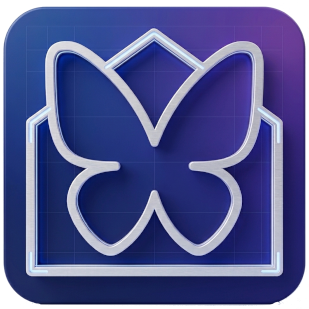
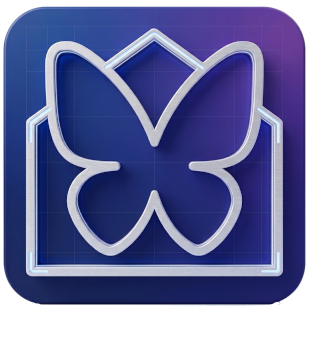
feat: panneau desktop multi-élèves (display:panel)
- desktop/php/panel.php : vue d'ensemble (un onglet par équipement ProJote
  actif) alimentée par widget_json via ProJote::getPronoteData() — identité,
  statistiques, prochain contrôle, EDT du jour/prochain jour, dernières notes,
  devoirs, punitions, lien iCal. Échappement JS systématique + JSON_HEX_* côté
  PHP (anti-XSS). Bouton « Actualiser » déclenche les commandes refresh.
- info.json : "display": "panel" (active le toggle displayDesktopPanel).
- jeeProJote.php : widget_json enrichi (prochain_DS_*, URL_Ical) pour alimenter
  les cartes correspondantes du panneau.
- Icône du plugin mise à jour.

Sans bump de version (numéro à valider à la publication).

diff --git a/desktop/php/panel.php b/desktop/php/panel.php
@@ -1,0 +1,325 @@
+<?php
+/* ProJote — Panneau d'accueil (desktop panel)
+ * Copyright (C) 2024-2026 Aldarande
+ *
+ * Page affichée sous le menu « Accueil » de Jeedom lorsque l'option
+ * « Afficher le panneau desktop » est activée dans la gestion du plugin.
+ *
+ * Mécanisme Jeedom natif :
+ *   - info.json : "display": "panel"  → Jeedom propose le toggle displayDesktopPanel.
+ *   - index.php ajoute l'entrée de menu si config::byKey('displayDesktopPanel','ProJote') != 0.
+ *   - Cette page est incluse comme FRAGMENT dans #div_pageContainer (pas de <html>/<head>).
+ *     FontAwesome et jQuery sont déjà chargés par le core.
+ *
+ * Rôle : vue d'ensemble multi-élèves (un onglet par équipement ProJote actif),
+ * alimentée par le blob widget_json mis à jour par le démon (ProJote::getPronoteData()).
+ */
+
+require_once dirname(__FILE__) . '/../../../../core/php/core.inc.php';
+require_once dirname(__FILE__) . '/../../core/class/ProJote.class.php';
+
+if (!isConnect()) {
+    throw new Exception('{{401 - Accès non autorisé}}');
+}
+
+// Rassembler les données de chaque équipement ProJote actif et visible.
+$students = array();
+foreach (eqLogic::byType('ProJote', true) as $eq) {
+    if (!$eq->getIsEnable()) {
+        continue;
+    }
+    $data = ProJote::getPronoteData($eq->getId());
+    if (!is_array($data)) {
+        $data = array();
+    }
+    $refreshCmd   = $eq->getCmd(null, 'refresh');
+    $students[] = array(
+        'id'        => $eq->getId(),
+        'name'      => $eq->getName(),
+        'refreshId' => is_object($refreshCmd) ? $refreshCmd->getId() : 0,
+        'data'      => $data,
+    );
+}
+// JSON_HEX_* : empêche toute évasion du contexte <script> (sécurité XSS).
+$jsonFlags = JSON_UNESCAPED_UNICODE | JSON_HEX_TAG | JSON_HEX_AMP | JSON_HEX_APOS | JSON_HEX_QUOT;
+?>
+
+<style>
+    #pj-panel { --pj-green:#94C904; --pj-green-d:#7aa600; padding:6px 4px 40px; }
+    #pj-panel .pj-head {
+        display:flex; align-items:center; gap:16px;
+        background:linear-gradient(135deg, var(--pj-green) 0%, var(--pj-green-d) 100%);
+        color:#fff; padding:16px 24px; border-radius:12px; margin-bottom:18px;
+        box-shadow:0 4px 14px rgba(122,166,0,.28);
+    }
+    #pj-panel .pj-head .pj-logo {
+        width:54px; height:54px; flex-shrink:0; border-radius:50%; background:#fff;
+        display:flex; align-items:center; justify-content:center; overflow:hidden;
+    }
+    #pj-panel .pj-head .pj-logo img { width:100%; height:100%; object-fit:contain; padding:6px; }
+    #pj-panel .pj-head h1 { margin:0; font-size:1.5em; font-weight:700; }
+    #pj-panel .pj-head p  { margin:3px 0 0; opacity:.9; font-size:.9em; }
+
+    #pj-panel .pj-tabs { display:flex; flex-wrap:wrap; gap:8px; margin-bottom:18px; }
+    #pj-panel .pj-tab {
+        padding:7px 18px; border-radius:22px; cursor:pointer; font-weight:600; font-size:.9em;
+        border:2px solid var(--pj-green); background:transparent; color:var(--pj-green-d);
+        transition:all .15s;
+    }
+    #pj-panel .pj-tab.active { background:var(--pj-green); color:#fff; }
+    #pj-panel .pj-tab:hover:not(.active) { background:rgba(148,201,4,.12); }
+
+    #pj-panel .pj-student { display:none; }
+    #pj-panel .pj-student.active { display:block; }
+
+    #pj-panel .pj-grid {
+        display:grid; grid-template-columns:repeat(auto-fill, minmax(290px, 1fr));
+        gap:16px; margin-bottom:16px;
+    }
+    #pj-panel .pj-card {
+        border:1px solid rgba(128,128,128,.22); border-radius:12px; overflow:hidden;
+        background:rgba(127,127,127,.04); box-shadow:0 2px 6px rgba(0,0,0,.06);
+    }
+    #pj-panel .pj-card-h {
+        background:var(--pj-green); color:#fff; padding:9px 14px; font-weight:700;
+        font-size:.85em; display:flex; align-items:center; gap:8px;
+    }
+    #pj-panel .pj-card-b { padding:14px; }
+    #pj-panel .pj-span2 { grid-column:span 2; }
+
+    #pj-panel .pj-id { display:flex; align-items:center; gap:16px; }
+    #pj-panel .pj-photo {
+        width:74px; height:74px; flex-shrink:0; border-radius:50%; object-fit:cover;
+        border:3px solid var(--pj-green); background:rgba(148,201,4,.12);
+        display:flex; align-items:center; justify-content:center; font-size:1.8em; color:var(--pj-green-d);
+    }
+    #pj-panel .pj-id h2 { margin:0; font-size:1.2em; color:var(--pj-green-d); }
+    #pj-panel .pj-id p  { margin:2px 0; font-size:.85em; opacity:.8; }
+
+    #pj-panel .pj-stats { display:flex; gap:10px; flex-wrap:wrap; }
+    #pj-panel .pj-stat {
+        flex:1; min-width:72px; text-align:center; padding:10px 6px; border-radius:9px;
+        background:rgba(148,201,4,.1);
+    }
+    #pj-panel .pj-stat .n { display:block; font-size:1.6em; font-weight:800; color:var(--pj-green-d); }
+    #pj-panel .pj-stat .l { font-size:.68em; text-transform:uppercase; opacity:.7; }
+    #pj-panel .pj-stat.warn .n { color:#e08e00; }
+    #pj-panel .pj-stat.bad  .n { color:#c0392b; }
+
+    #pj-panel table.pj-edt { width:100%; border-collapse:collapse; font-size:.85em; }
+    #pj-panel table.pj-edt th { background:var(--pj-green); color:#fff; padding:7px 9px; text-align:left; }
+    #pj-panel table.pj-edt td { padding:6px 9px; border-bottom:1px solid rgba(128,128,128,.15); }
+    #pj-panel table.pj-edt tr:last-child td { border-bottom:none; }
+    #pj-panel .pj-cancel { text-decoration:line-through; opacity:.6; }
+    #pj-panel .pj-pill {
+        display:inline-block; padding:2px 8px; border-radius:9px; font-size:.85em;
+        font-weight:600; background:rgba(148,201,4,.16); color:var(--pj-green-d);
+    }
+
+    #pj-panel ul.pj-list { list-style:none; padding:0; margin:0; }
+    #pj-panel ul.pj-list li { padding:7px 0; border-bottom:1px solid rgba(128,128,128,.15); }
+    #pj-panel ul.pj-list li:last-child { border-bottom:none; }
+    #pj-panel .pj-note { display:flex; justify-content:space-between; align-items:center; }
+    #pj-panel .pj-note .v { font-size:1.15em; font-weight:800; color:var(--pj-green-d); }
+    #pj-panel .pj-note .meta { font-size:.78em; opacity:.65; }
+    #pj-panel .pj-hw-done { color:#27ae60; }
+    #pj-panel .pj-hw-todo { color:#e08e00; }
+
+    #pj-panel .pj-ical {
+        display:inline-flex; align-items:center; gap:7px; padding:8px 14px;
+        background:var(--pj-green); color:#fff; border-radius:6px; text-decoration:none; font-size:.88em;
+    }
+    #pj-panel .pj-ical:hover { background:var(--pj-green-d); color:#fff; }
+    #pj-panel .pj-empty { opacity:.55; font-style:italic; text-align:center; padding:16px; }
+    #pj-panel .pj-refresh { float:right; }
+</style>
+
+<div id="pj-panel">
+    <div class="pj-head">
+        <div class="pj-logo"><img src="plugins/ProJote/plugin_info/ProJote_icon.png" alt="ProJote" onerror="this.parentNode.innerHTML='<i class=&quot;fas fa-graduation-cap&quot; style=&quot;color:#7aa600&quot;></i>'"></div>
+        <div style="flex:1;">
+            <h1>ProJote</h1>
+            <p>{{Vue d'ensemble des élèves}}</p>
+        </div>
+        <a class="btn btn-default btn-sm pj-refresh" id="pj-refresh-all" title="{{Actualiser depuis Pronote}}">
+            <i class="fas fa-sync-alt"></i> {{Actualiser}}
+        </a>
+    </div>
+
+    <div class="pj-tabs" id="pj-tabs"></div>
+    <div id="pj-students"></div>
+</div>
+
+<script>
+(function () {
+    var STUDENTS = <?php echo json_encode($students, $jsonFlags); ?>;
+
+    function esc(s) {
+        return String(s == null ? '' : s)
+            .replace(/&/g, '&amp;').replace(/</g, '&lt;').replace(/>/g, '&gt;')
+            .replace(/"/g, '&quot;');
+    }
+    function fmtH(h) { return h ? String(h).slice(0, 5) : '--'; }
+    function asArray(v) { return Array.isArray(v) ? v : []; }
+
+    function edtTable(courses) {
+        courses = asArray(courses);
+        if (!courses.length) return '<div class="pj-empty">{{Pas de cours}}</div>';
+        var h = '<table class="pj-edt"><thead><tr><th>{{Horaire}}</th><th>{{Cours}}</th><th>{{Salle}}</th></tr></thead><tbody>';
+        courses.forEach(function (c) {
+            var cancel = c.annulation ? ' class="pj-cancel"' : '';
+            h += '<tr' + cancel + '>';
+            h += '<td>' + esc(fmtH(c.heure)) + ' - ' + esc(fmtH(c.heure_fin)) + '</td>';
+            h += '<td><span class="pj-pill">' + esc(c.cours || '--') + '</span>' + (c.annulation ? ' <small>(annulé)</small>' : '') + '</td>';
+            h += '<td>' + esc(c.salle || '--') + '</td>';
+            h += '</tr>';
+        });
+        return h + '</tbody></table>';
+    }
+
+    function notesList(notes) {
+        notes = asArray(notes);
+        if (!notes.length) return '<div class="pj-empty">{{Aucune note}}</div>';
+        var h = '<ul class="pj-list">';
+        notes.slice(0, 10).forEach(function (n) {
+            var mat = (n.cours || '–'); if (mat.indexOf(' > ') !== -1) mat = mat.split(' > ').pop();
+            h += '<li class="pj-note"><div><div style="font-weight:600">' + esc(mat) + '</div>' +
+                 '<div class="meta">' + esc((n.date || '').slice(0, 5)) +
+                 (n.moyenne_classe ? ' · cl. ' + esc(n.moyenne_classe) : '') + '</div></div>' +
+                 '<div class="v">' + esc(n.note || '?') + (n.sur ? '<small>/' + esc(n.sur) + '</small>' : '') + '</div></li>';
+        });
+        return h + '</ul>';
+    }
+
+    function homeworkList(d) {
+        var list = asArray(d.devoirs).concat(asArray(d.devoirs_demain));
+        if (!list.length) return '<div class="pj-empty">{{Aucun devoir}}</div>';
+        var h = '<ul class="pj-list">';
+        list.slice(0, 15).forEach(function (dv) {
+            var done = !!dv.done;
+            h += '<li><i class="fas ' + (done ? 'fa-check-circle pj-hw-done' : 'fa-circle pj-hw-todo') + '"></i> ' +
+                 '<strong>' + esc(dv.title || '–') + '</strong>' +
+                 (dv.description ? '<div class="meta" style="font-size:.8em;opacity:.7">' + esc(dv.description) + '</div>' : '') +
+                 '</li>';
+        });
+        return h + '</ul>';
+    }
+
+    function punitionsList(list) {
+        list = asArray(list);
+        if (!list.length) return '<div class="pj-empty">{{Aucune punition}}</div>';
+        var h = '<ul class="pj-list">';
+        list.slice(0, 10).forEach(function (p) {
+            h += '<li><strong>' + esc(p.nature || p.type || 'Punition') + '</strong>' +
+                 (p.raison ? ' — ' + esc(p.raison) : '') +
+                 (p.date ? ' <small class="meta">(' + esc(p.date) + ')</small>' : '') + '</li>';
+        });
+        return h + '</ul>';
+    }
+
+    function renderStudent(s) {
+        var d = s.data || {};
+        var h = '<div class="pj-grid">';
+
+        // Identité
+        h += '<div class="pj-card pj-span2"><div class="pj-card-h"><i class="fas fa-user-graduate"></i> {{Identité}}</div>';
+        h += '<div class="pj-card-b"><div class="pj-id">';
+        if (d.photo) {
+            h += '<img class="pj-photo" src="' + esc(d.photo) + '" onerror="this.outerHTML=\'<div class=&quot;pj-photo&quot;><i class=&quot;fas fa-user-graduate&quot;></i></div>\'">';
+        } else {
+            h += '<div class="pj-photo"><i class="fas fa-user-graduate"></i></div>';
+        }
+        h += '<div><h2>' + esc(d.eleve || s.name) + '</h2>' +
+             '<p><i class="fas fa-chalkboard"></i> ' + esc(d.classe || '--') + '</p>' +
+             '<p><i class="fas fa-school"></i> ' + esc(d.etablissement || '--') + '</p></div>';
+        h += '</div></div></div>';
+
+        // Statistiques
+        h += '<div class="pj-card"><div class="pj-card-h"><i class="fas fa-chart-bar"></i> {{Statistiques}}</div>';
+        h += '<div class="pj-card-b"><div class="pj-stats">' +
+             '<div class="pj-stat warn"><span class="n">' + (d.nb_absences || 0) + '</span><span class="l">{{Absences}}</span></div>' +
+             '<div class="pj-stat warn"><span class="n">' + (d.nb_retards || 0) + '</span><span class="l">{{Retards}}</span></div>' +
+             '<div class="pj-stat bad"><span class="n">' + (d.nb_punitions || 0) + '</span><span class="l">{{Punitions}}</span></div>' +
+             '</div></div></div>';
+
+        // Prochain DS
+        if (d.prochain_DS_matiere) {
+            h += '<div class="pj-card"><div class="pj-card-h"><i class="fas fa-pen"></i> {{Prochain contrôle}}</div>';
+            h += '<div class="pj-card-b"><strong>' + esc(d.prochain_DS_matiere) + '</strong>' +
+                 (d.prochain_DS_date ? '<div class="meta">' + esc(d.prochain_DS_date) + '</div>' : '') +
+                 (d.prochain_DS_dans_jours != null ? '<span class="pj-pill" style="margin-top:6px;display:inline-block">{{dans}} ' + esc(d.prochain_DS_dans_jours) + ' {{j}}</span>' : '') +
+                 '</div></div>';
+        }
+        h += '</div>'; // grid
+
+        // EDT aujourd'hui
+        h += '<div class="pj-card" style="margin-bottom:16px"><div class="pj-card-h"><i class="fas fa-calendar-day"></i> {{Emploi du temps — aujourd\'hui}}</div>';
+        h += '<div class="pj-card-b">' + edtTable(d.edt_aujourdhui) + '</div></div>';
+
+        // EDT prochain jour
+        h += '<div class="pj-card" style="margin-bottom:16px"><div class="pj-card-h"><i class="fas fa-calendar-alt"></i> {{Emploi du temps — prochain jour}}';
+        if (d.edt_prochainjour_date) h += ' <small style="opacity:.85">(' + esc(d.edt_prochainjour_date) + ')</small>';
+        h += '</div><div class="pj-card-b">' + edtTable(d.edt_prochainjour) + '</div></div>';
+
+        // Notes / Devoirs / Punitions
+        h += '<div class="pj-grid">';
+        h += '<div class="pj-card"><div class="pj-card-h"><i class="fas fa-star"></i> {{Dernières notes}}</div><div class="pj-card-b">' + notesList(d.notes) + '</div></div>';
+        h += '<div class="pj-card"><div class="pj-card-h"><i class="fas fa-book"></i> {{Devoirs}}</div><div class="pj-card-b">' + homeworkList(d) + '</div></div>';
+        h += '<div class="pj-card"><div class="pj-card-h"><i class="fas fa-exclamation-triangle"></i> {{Punitions}}</div><div class="pj-card-b">' + punitionsList(d.punitions) + '</div></div>';
+
+        // ICAL
+        if (d.URL_Ical || d.ical) {
+            var ical = d.URL_Ical || d.ical;
+            h += '<div class="pj-card"><div class="pj-card-h"><i class="fas fa-calendar-check"></i> {{Calendrier ICAL}}</div>' +
+                 '<div class="pj-card-b"><a class="pj-ical" href="' + esc(ical) + '" target="_blank"><i class="fas fa-download"></i> {{S\'abonner}}</a></div></div>';
+        }
+        h += '</div>'; // grid
+
+        return h;
+    }
+
+    var tabs = document.getElementById('pj-tabs');
+    var panes = document.getElementById('pj-students');
+
+    if (!STUDENTS.length) {
+        panes.innerHTML = '<div class="alert alert-info"><i class="fas fa-info-circle"></i> ' +
+            "{{Aucun équipement ProJote actif. Ajoutez un élève dans Plugins → Organisation → ProJote.}}" + '</div>';
+        document.getElementById('pj-refresh-all').style.display = 'none';
+        return;
+    }
+
+    var tabsHtml = '', panesHtml = '';
+    STUDENTS.forEach(function (s, i) {
+        var label = (s.data && s.data.eleve) ? s.data.eleve : s.name;
+        tabsHtml  += '<div class="pj-tab' + (i === 0 ? ' active' : '') + '" data-i="' + i + '">' + esc(label) + '</div>';
+        panesHtml += '<div class="pj-student' + (i === 0 ? ' active' : '') + '" data-i="' + i + '">' + renderStudent(s) + '</div>';
+    });
+    tabs.innerHTML = tabsHtml;
+    panes.innerHTML = panesHtml;
+
+    tabs.addEventListener('click', function (e) {
+        var t = e.target.closest('.pj-tab'); if (!t) return;
+        var i = t.getAttribute('data-i');
+        tabs.querySelectorAll('.pj-tab').forEach(function (x) { x.classList.remove('active'); });
+        panes.querySelectorAll('.pj-student').forEach(function (x) { x.classList.remove('active'); });
+        t.classList.add('active');
+        panes.querySelector('.pj-student[data-i="' + i + '"]').classList.add('active');
+    });
+
+    // Actualiser : déclenche la commande refresh de chaque élève (si jeedom dispo), puis recharge.
+    document.getElementById('pj-refresh-all').addEventListener('click', function () {
+        var btn = this;
+        btn.querySelector('i').classList.add('fa-spin');
+        var ids = STUDENTS.map(function (s) { return s.refreshId; }).filter(Boolean);
+        if (typeof jeedom !== 'undefined' && jeedom.cmd && ids.length) {
+            var pending = ids.length;
+            ids.forEach(function (id) {
+                jeedom.cmd.execute({ id: id, error: function () {}, success: function () {} });
+            });
+            setTimeout(function () { window.location.reload(); }, 4000);
+        } else {
+            window.location.reload();
+        }
+    });
+})();
+</script>

diff --git a/core/php/jeeProJote.php b/core/php/jeeProJote.php
@@ -540,6 +540,10 @@ try {
         'matiere_en_baisse_detail' => isset($result['Notes']['matiere_en_baisse_detail']) ? $result['Notes']['matiere_en_baisse_detail'] : array(),
         'notifications'            => isset($result['Notifications']['Notification'])      ? $result['Notifications']['Notification']      : array(),
         'events'                   => $events,
+        'prochain_DS_matiere'      => isset($result['Devoirs']['prochain_DS_matiere'])     ? $result['Devoirs']['prochain_DS_matiere']     : '',
+        'prochain_DS_date'         => isset($result['Devoirs']['prochain_DS_date'])        ? $result['Devoirs']['prochain_DS_date']        : '',
+        'prochain_DS_dans_jours'   => isset($result['Devoirs']['prochain_DS_dans_jours'])  ? $result['Devoirs']['prochain_DS_dans_jours']  : null,
+        'URL_Ical'                 => isset($result['Ical'])                                ? $result['Ical']                                : '',
         'last_update'           => date('c'),
     );
     $eqLogic->setConfiguration('widget_json', json_encode($widget_data));
